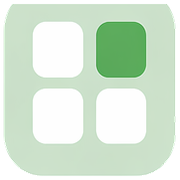
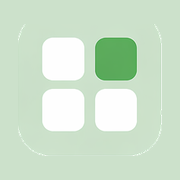
Prepare app for Android PWA install

diff --git a/sw.js b/sw.js
@@ -1,0 +1,72 @@
+const CACHE_NAME = "registro-personal-shell-v1";
+const APP_SHELL = [
+  "./",
+  "./index.html",
+  "./styles.css",
+  "./app.js",
+  "./pwa.js",
+  "./manifest.webmanifest",
+  "./logo_header_v1.png",
+  "./favicon-32.png",
+  "./apple-touch-icon.png",
+  "./icon-192.png",
+  "./icon-512.png",
+  "./icon-512-maskable.png",
+];
+
+self.addEventListener("install", (event) => {
+  event.waitUntil(
+    caches
+      .open(CACHE_NAME)
+      .then((cache) => cache.addAll(APP_SHELL))
+      .then(() => self.skipWaiting())
+  );
+});
+
+self.addEventListener("activate", (event) => {
+  event.waitUntil(
+    caches
+      .keys()
+      .then((keys) =>
+        Promise.all(keys.filter((key) => key !== CACHE_NAME).map((key) => caches.delete(key)))
+      )
+      .then(() => self.clients.claim())
+  );
+});
+
+self.addEventListener("fetch", (event) => {
+  const { request } = event;
+  if (request.method !== "GET") return;
+
+  const url = new URL(request.url);
+  if (url.origin !== self.location.origin) return;
+
+  if (request.mode === "navigate") {
+    event.respondWith(
+      fetch(request)
+        .then((response) => response)
+        .catch(async () => {
+          const cached = await caches.match("./index.html");
+          return cached || Response.error();
+        })
+    );
+    return;
+  }
+
+  if (!["script", "style", "image", "manifest"].includes(request.destination)) return;
+
+  event.respondWith(
+    caches.match(request, { ignoreSearch: true }).then((cached) => {
+      const fetched = fetch(request)
+        .then((response) => {
+          if (response && response.ok) {
+            caches.open(CACHE_NAME).then((cache) => cache.put(request, response.clone()));
+          }
+          return response;
+        })
+        .catch(() => cached);
+
+      return cached || fetched;
+    })
+  );
+});

diff --git a/index.html b/index.html
@@ -4,15 +4,19 @@
     <meta charset="UTF-8" />
     <meta name="viewport" content="width=device-width, initial-scale=1" />
     <title>Registro Personal</title>
+    <meta name="application-name" content="Registro Personal" />
+    <meta name="apple-mobile-web-app-title" content="Registro Personal" />
+    <meta name="mobile-web-app-capable" content="yes" />
+    <meta name="theme-color" content="#f7f7fb" />
     <link rel="preconnect" href="https://fonts.googleapis.com" />
     <link rel="preconnect" href="https://fonts.gstatic.com" crossorigin />
     <link
       href="https://fonts.googleapis.com/css2?family=Fraunces:opsz,wght@9..144,400;9..144,600;9..144,700&family=Space+Grotesk:wght@400;500;600&display=swap"
       rel="stylesheet"
     />
-    <link rel="icon" type="image/png" sizes="32x32" href="favicon-32x32.png?v=logo-favicon-20260423b" />
-    <link rel="icon" type="image/png" sizes="192x192" href="favicon-192x192.png?v=logo-favicon-20260423b" />
-    <link rel="apple-touch-icon" href="apple-touch-icon.png?v=logo-favicon-20260423b" />
+    <link rel="manifest" href="manifest.webmanifest?v=pwa-20260423c" />
+    <link rel="icon" type="image/png" sizes="32x32" href="favicon-32.png?v=pwa-20260423c" />
+    <link rel="apple-touch-icon" href="apple-touch-icon.png?v=pwa-20260423c" />
     <link rel="stylesheet" href="styles.css?v=header-tight-20260423" />
   </head>
   <body>
@@ -343,5 +347,6 @@
     </main>
 
     <script src="app.js?v=multiuser-auth-20260423"></script>
+    <script src="pwa.js?v=pwa-20260423c"></script>
   </body>
 </html>

diff --git a/pwa.js b/pwa.js
@@ -1,0 +1,7 @@
+if ("serviceWorker" in navigator) {
+  window.addEventListener("load", () => {
+    navigator.serviceWorker.register("./sw.js", { scope: "./" }).catch((error) => {
+      console.warn("No se pudo registrar el service worker.", error);
+    });
+  });
+}
